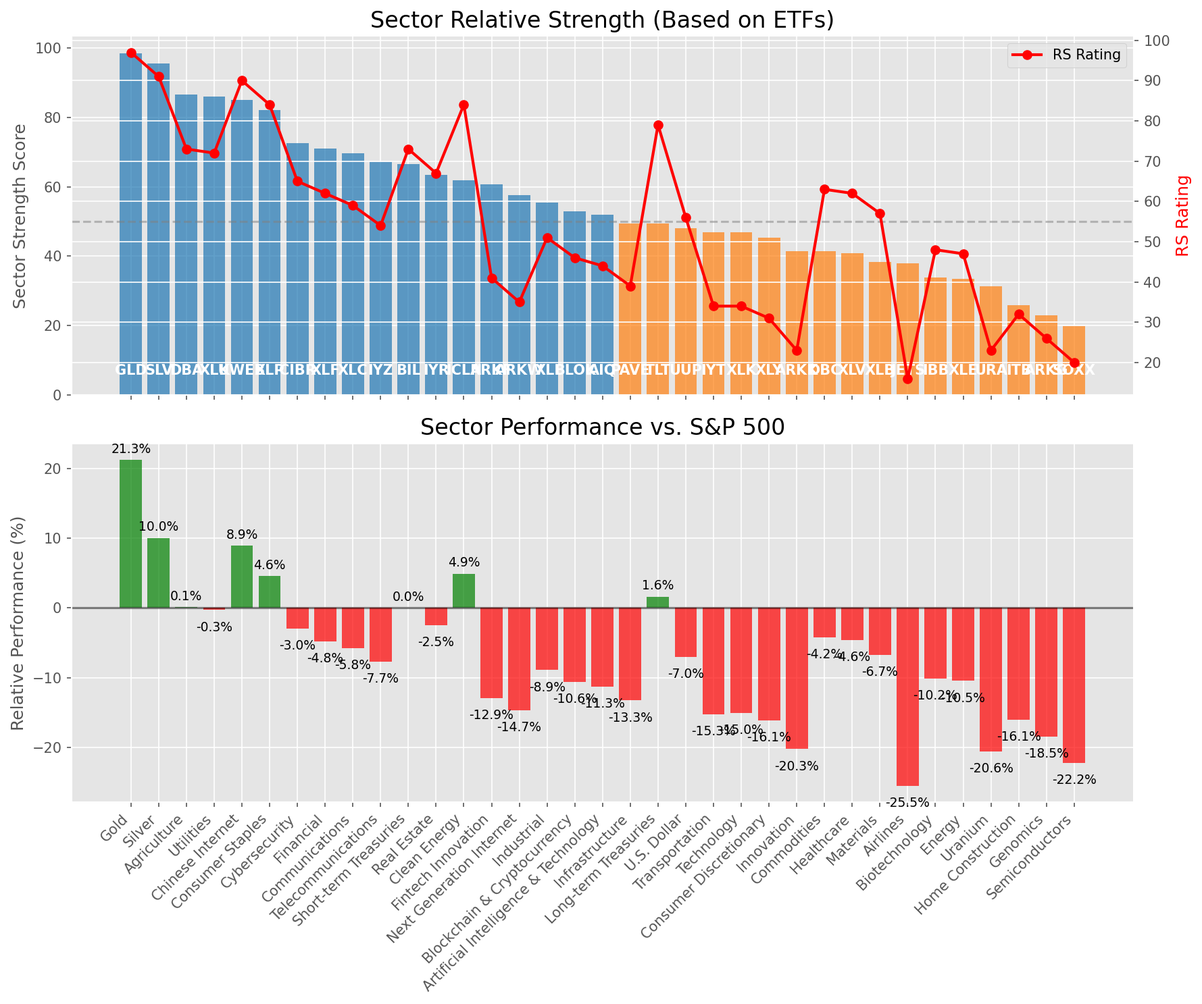
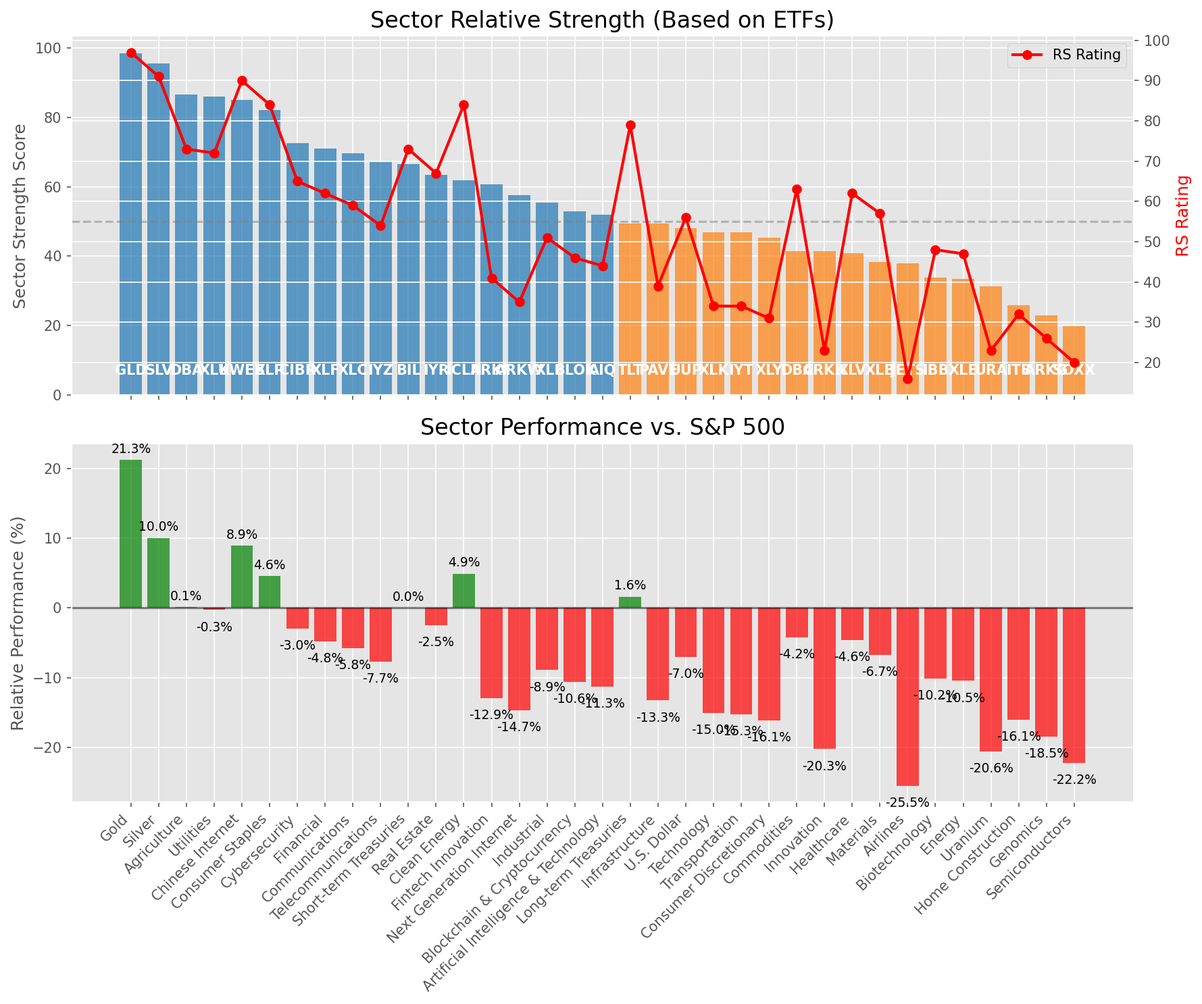
Add market report for 2025-04-24

diff --git a/oneil_relative_strength_report_2025-04-24.md b/oneil_relative_strength_report_2025-04-24.md
@@ -67,14 +67,14 @@ Based on William O'Neil's Relative Strength Methodology
 | [XLI](https://www.tradingview.com/chart/?symbol=XLI) | 55.4 | 51.0 | -8.93% | 10d ✓, 50d ✗, 200d ✗ | ↗ | Industrial |
 | [BLOK](https://www.tradingview.com/chart/?symbol=BLOK) | 52.9 | 46.0 | -10.64% | 10d ✓, 50d ✗, 200d ✗ | ↗ | Blockchain & Cryptocurrency |
 | [AIQ](https://www.tradingview.com/chart/?symbol=AIQ) | 51.9 | 44.0 | -11.30% | 10d ✓, 50d ✗, 200d ✗ | ↗ | Artificial Intelligence & Technology |
-| [PAVE](https://www.tradingview.com/chart/?symbol=PAVE) | 49.4 | 39.0 | -13.28% | 10d ✓, 50d ✗, 200d ✗ | ↗ | Infrastructure |
 | [TLT](https://www.tradingview.com/chart/?symbol=TLT) | 49.4 | 79.0 | 1.62% | 10d ✓, 50d ✗, 200d ✗ | ↘ | Long-term Treasuries |
+| [PAVE](https://www.tradingview.com/chart/?symbol=PAVE) | 49.4 | 39.0 | -13.28% | 10d ✓, 50d ✗, 200d ✗ | ↗ | Infrastructure |
 | [UUP](https://www.tradingview.com/chart/?symbol=UUP) | 48.0 | 56.0 | -7.01% | 10d ✗, 50d ✗, 200d ✗ | ↗ | U.S. Dollar |
-| [IYT](https://www.tradingview.com/chart/?symbol=IYT) | 46.9 | 34.0 | -15.29% | 10d ✓, 50d ✗, 200d ✗ | ↗ | Transportation |
 | [XLK](https://www.tradingview.com/chart/?symbol=XLK) | 46.9 | 34.0 | -15.05% | 10d ✓, 50d ✗, 200d ✗ | ↗ | Technology |
+| [IYT](https://www.tradingview.com/chart/?symbol=IYT) | 46.9 | 34.0 | -15.29% | 10d ✓, 50d ✗, 200d ✗ | ↗ | Transportation |
 | [XLY](https://www.tradingview.com/chart/?symbol=XLY) | 45.4 | 31.0 | -16.12% | 10d ✓, 50d ✗, 200d ✗ | ↗ | Consumer Discretionary |
-| [ARKK](https://www.tradingview.com/chart/?symbol=ARKK) | 41.4 | 23.0 | -20.26% | 10d ✓, 50d ✗, 200d ✗ | ↗ | Innovation |
 | [DBC](https://www.tradingview.com/chart/?symbol=DBC) | 41.4 | 63.0 | -4.22% | 10d ✓, 50d ✗, 200d ✗ | ↘ | Commodities |
+| [ARKK](https://www.tradingview.com/chart/?symbol=ARKK) | 41.4 | 23.0 | -20.26% | 10d ✓, 50d ✗, 200d ✗ | ↗ | Innovation |
 | [XLV](https://www.tradingview.com/chart/?symbol=XLV) | 40.9 | 62.0 | -4.64% | 10d ✓, 50d ✗, 200d ✗ | ↘ | Healthcare |
 | [XLB](https://www.tradingview.com/chart/?symbol=XLB) | 38.4 | 57.0 | -6.71% | 10d ✓, 50d ✗, 200d ✗ | ↘ | Materials |
 | [JETS](https://www.tradingview.com/chart/?symbol=JETS) | 37.9 | 16.0 | -25.54% | 10d ✓, 50d ✗, 200d ✗ | ↗ | Airlines |
@@ -110,78 +110,78 @@ The following 96 stocks show exceptional relative strength:
 
 | RS Rating | Buy Score | Current Price | Chart | Name | Ticker |
 |-----------|-----------|---------------|-------|------|--------|
-| 100 | 100 | $144.50 | [Chart](https://www.tradingview.com/chart/?symbol=UGL) | ProShares Ultra Gold | UGL |
-| 100 | 100 | $153.15 | [Chart](https://www.tradingview.com/chart/?symbol=PLMR) | Palomar Holdings, Inc. Common stock | PLMR |
 | 100 | 100 | $109.39 | [Chart](https://www.tradingview.com/chart/?symbol=WGS) | GeneDx Holdings Corp. Class A Common Stock | WGS |
+| 100 | 100 | $153.15 | [Chart](https://www.tradingview.com/chart/?symbol=PLMR) | Palomar Holdings, Inc. Common stock | PLMR |
+| 100 | 100 | $144.50 | [Chart](https://www.tradingview.com/chart/?symbol=UGL) | ProShares Ultra Gold | UGL |
 | 99 | 100 | $107.78 | [Chart](https://www.tradingview.com/chart/?symbol=PLTR) | Palantir Technologies Inc. Class A Common Stock | PLTR |
 | 99 | 100 | $119.63 | [Chart](https://www.tradingview.com/chart/?symbol=AEM) | Agnico Eagle Mines Ltd. | AEM |
 | 99 | 100 | $183.60 | [Chart](https://www.tradingview.com/chart/?symbol=RGLD) | Royal Gold Inc | RGLD |
 | 99 | 100 | $16.38 | [Chart](https://www.tradingview.com/chart/?symbol=EZPW) | Ezcorp Inc | EZPW |
-| 99 | 100 | $25.25 | [Chart](https://www.tradingview.com/chart/?symbol=TGI) | Triumph Group, Inc. | TGI |
 | 99 | 100 | $170.07 | [Chart](https://www.tradingview.com/chart/?symbol=PM) | Philip Morris International Inc. | PM |
+| 99 | 100 | $25.25 | [Chart](https://www.tradingview.com/chart/?symbol=TGI) | Triumph Group, Inc. | TGI |
+| 98 | 100 | $23.37 | [Chart](https://www.tradingview.com/chart/?symbol=OR) | Osisko Gold Royalties Ltd | OR |
 | 98 | 100 | $25.20 | [Chart](https://www.tradingview.com/chart/?symbol=DB) | Deutsche Bank Aktiengesellschaft | DB |
 | 98 | 100 | $71.75 | [Chart](https://www.tradingview.com/chart/?symbol=WRB) | W.R. Berkley Corporation | WRB |
-| 98 | 100 | $23.37 | [Chart](https://www.tradingview.com/chart/?symbol=OR) | Osisko Gold Royalties Ltd | OR |
 | 98 | 100 | $20.83 | [Chart](https://www.tradingview.com/chart/?symbol=GRND) | Grindr Inc. | GRND |
-| 97 | 100 | $31.89 | [Chart](https://www.tradingview.com/chart/?symbol=SGOL) | abrdn Physical Gold Shares ETF | SGOL |
-| 97 | 100 | $605.95 | [Chart](https://www.tradingview.com/chart/?symbol=SPOT) | Spotify Technology S.A. | SPOT |
 | 97 | 100 | $308.07 | [Chart](https://www.tradingview.com/chart/?symbol=GLD) | SPDR Gold Trust, SPDR Gold Shares | GLD |
-| 97 | 100 | $26.01 | [Chart](https://www.tradingview.com/chart/?symbol=MP) | MP Materials Corp. | MP |
-| 97 | 100 | $262.18 | [Chart](https://www.tradingview.com/chart/?symbol=TMUS) | T-Mobile US, Inc. | TMUS |
-| 97 | 100 | $32.22 | [Chart](https://www.tradingview.com/chart/?symbol=OUNZ) | VanEck Merk Gold ETF | OUNZ |
-| 97 | 100 | $222.69 | [Chart](https://www.tradingview.com/chart/?symbol=TTWO) | Take-Two Interactive Software Inc | TTWO |
-| 97 | 100 | $63.04 | [Chart](https://www.tradingview.com/chart/?symbol=IAU) | iShares Gold Trust | IAU |
-| 97 | 100 | $66.19 | [Chart](https://www.tradingview.com/chart/?symbol=GLDM) | SPDR Gold MiniShares | GLDM |
 | 97 | 100 | $33.02 | [Chart](https://www.tradingview.com/chart/?symbol=AAAU) | Goldman Sachs Physical Gold ETF Shares | AAAU |
+| 97 | 100 | $66.19 | [Chart](https://www.tradingview.com/chart/?symbol=GLDM) | SPDR Gold MiniShares | GLDM |
+| 97 | 100 | $262.18 | [Chart](https://www.tradingview.com/chart/?symbol=TMUS) | T-Mobile US, Inc. | TMUS |
+| 97 | 100 | $222.69 | [Chart](https://www.tradingview.com/chart/?symbol=TTWO) | Take-Two Interactive Software Inc | TTWO |
 | 97 | 100 | $252.59 | [Chart](https://www.tradingview.com/chart/?symbol=VRSN) | VeriSign Inc | VRSN |
-| 97 | 100 | $32.96 | [Chart](https://www.tradingview.com/chart/?symbol=BAR) | GraniteShares Gold Shares | BAR |
 | 97 | 100 | $33.33 | [Chart](https://www.tradingview.com/chart/?symbol=IAUM) | iShares Gold Trust Micro | IAUM |
-| 97 | 100 | $27.53 | [Chart](https://www.tradingview.com/chart/?symbol=T) | AT&T Inc. | T |
+| 97 | 100 | $31.89 | [Chart](https://www.tradingview.com/chart/?symbol=SGOL) | abrdn Physical Gold Shares ETF | SGOL |
+| 97 | 100 | $32.96 | [Chart](https://www.tradingview.com/chart/?symbol=BAR) | GraniteShares Gold Shares | BAR |
+| 97 | 100 | $605.95 | [Chart](https://www.tradingview.com/chart/?symbol=SPOT) | Spotify Technology S.A. | SPOT |
+| 97 | 100 | $63.04 | [Chart](https://www.tradingview.com/chart/?symbol=IAU) | iShares Gold Trust | IAU |
 | 97 | 100 | $71.35 | [Chart](https://www.tradingview.com/chart/?symbol=KR) | The Kroger Co. | KR |
-| 96 | 100 | $85.99 | [Chart](https://www.tradingview.com/chart/?symbol=SNEX) | StoneX Group Inc. Common Stock | SNEX |
-| 96 | 100 | $64.78 | [Chart](https://www.tradingview.com/chart/?symbol=VRNA) | Verona Pharma plc | VRNA |
-| 96 | 100 | $25.45 | [Chart](https://www.tradingview.com/chart/?symbol=PHYS) | Sprott Physical Gold Trust | PHYS |
-| 96 | 100 | $29.59 | [Chart](https://www.tradingview.com/chart/?symbol=CEF) | Sprott Physical Gold and Silver Trust | CEF |
-| 96 | 100 | $29.59 | [Chart](https://www.tradingview.com/chart/?symbol=EUFN) | iShares MSCI Europe Financials ETF | EUFN |
+| 97 | 100 | $27.53 | [Chart](https://www.tradingview.com/chart/?symbol=T) | AT&T Inc. | T |
+| 97 | 100 | $26.01 | [Chart](https://www.tradingview.com/chart/?symbol=MP) | MP Materials Corp. | MP |
+| 97 | 100 | $32.22 | [Chart](https://www.tradingview.com/chart/?symbol=OUNZ) | VanEck Merk Gold ETF | OUNZ |
 | 96 | 100 | $47.42 | [Chart](https://www.tradingview.com/chart/?symbol=SEZL) | Sezzle Inc. Common Stock | SEZL |
-| 95 | 100 | $53.97 | [Chart](https://www.tradingview.com/chart/?symbol=PPC) | Pilgrims Pride Corporation | PPC |
+| 96 | 100 | $85.99 | [Chart](https://www.tradingview.com/chart/?symbol=SNEX) | StoneX Group Inc. Common Stock | SNEX |
+| 96 | 100 | $29.59 | [Chart](https://www.tradingview.com/chart/?symbol=CEF) | Sprott Physical Gold and Silver Trust | CEF |
+| 96 | 100 | $25.45 | [Chart](https://www.tradingview.com/chart/?symbol=PHYS) | Sprott Physical Gold Trust | PHYS |
+| 96 | 100 | $64.78 | [Chart](https://www.tradingview.com/chart/?symbol=VRNA) | Verona Pharma plc | VRNA |
+| 96 | 100 | $29.59 | [Chart](https://www.tradingview.com/chart/?symbol=EUFN) | iShares MSCI Europe Financials ETF | EUFN |
 | 95 | 100 | $16.60 | [Chart](https://www.tradingview.com/chart/?symbol=SPNT) | SiriusPoint Ltd. | SPNT |
-| 95 | 100 | $88.15 | [Chart](https://www.tradingview.com/chart/?symbol=CCEP) | Coca-Cola Europacific Partners plc Ordinary Shares | CCEP |
-| 95 | 100 | $531.64 | [Chart](https://www.tradingview.com/chart/?symbol=BRK.B) | BERKSHIRE HATHAWAY Class B | BRK.B |
-| 95 | 100 | $48.81 | [Chart](https://www.tradingview.com/chart/?symbol=GFL) | GFL Environmental Inc. Subordinate Voting Shares | GFL |
-| 95 | 100 | $175.87 | [Chart](https://www.tradingview.com/chart/?symbol=DGX) | Quest Diagnostics Inc. | DGX |
-| 95 | 100 | $40.68 | [Chart](https://www.tradingview.com/chart/?symbol=MRX) | Marex Group plc Ordinary Shares | MRX |
 | 95 | 100 | $71.79 | [Chart](https://www.tradingview.com/chart/?symbol=CORT) | Corcept Therapeutics Inc. | CORT |
+| 95 | 100 | $53.97 | [Chart](https://www.tradingview.com/chart/?symbol=PPC) | Pilgrims Pride Corporation | PPC |
+| 95 | 100 | $88.15 | [Chart](https://www.tradingview.com/chart/?symbol=CCEP) | Coca-Cola Europacific Partners plc Ordinary Shares | CCEP |
+| 95 | 100 | $175.87 | [Chart](https://www.tradingview.com/chart/?symbol=DGX) | Quest Diagnostics Inc. | DGX |
+| 95 | 100 | $531.64 | [Chart](https://www.tradingview.com/chart/?symbol=BRK.B) | BERKSHIRE HATHAWAY Class B | BRK.B |
+| 95 | 100 | $40.68 | [Chart](https://www.tradingview.com/chart/?symbol=MRX) | Marex Group plc Ordinary Shares | MRX |
+| 95 | 100 | $48.81 | [Chart](https://www.tradingview.com/chart/?symbol=GFL) | GFL Environmental Inc. Subordinate Voting Shares | GFL |
 | 94 | 100 | $136.98 | [Chart](https://www.tradingview.com/chart/?symbol=DTE) | DTE Energy Company | DTE |
-| 94 | 100 | $166.68 | [Chart](https://www.tradingview.com/chart/?symbol=SFM) | Sprouts Farmers Market, Inc. | SFM |
-| 94 | 100 | $331.52 | [Chart](https://www.tradingview.com/chart/?symbol=AJG) | Arthur J. Gallagher & Co. | AJG |
-| 94 | 100 | $42.45 | [Chart](https://www.tradingview.com/chart/?symbol=BTI) | British American Tobacco p.l.c. American Depositary Shares, American Depositary Shares, each representing one Ordinary Share | BTI |
-| 94 | 100 | $68.41 | [Chart](https://www.tradingview.com/chart/?symbol=VTR) | Ventas, Inc. | VTR |
 | 94 | 100 | $58.71 | [Chart](https://www.tradingview.com/chart/?symbol=MO) | Altria Group, Inc. | MO |
+| 94 | 100 | $331.52 | [Chart](https://www.tradingview.com/chart/?symbol=AJG) | Arthur J. Gallagher & Co. | AJG |
+| 94 | 100 | $166.68 | [Chart](https://www.tradingview.com/chart/?symbol=SFM) | Sprouts Farmers Market, Inc. | SFM |
+| 94 | 100 | $68.41 | [Chart](https://www.tradingview.com/chart/?symbol=VTR) | Ventas, Inc. | VTR |
+| 94 | 100 | $42.45 | [Chart](https://www.tradingview.com/chart/?symbol=BTI) | British American Tobacco p.l.c. American Depositary Shares, American Depositary Shares, each representing one Ordinary Share | BTI |
 | 93 | 100 | $116.43 | [Chart](https://www.tradingview.com/chart/?symbol=COOP) | Mr. Cooper Group Inc. Common Stock | COOP |
+| 93 | 100 | $263.27 | [Chart](https://www.tradingview.com/chart/?symbol=CME) | CME Group Inc. | CME |
 | 93 | 100 | $77.96 | [Chart](https://www.tradingview.com/chart/?symbol=NFG) | National Fuel Gas Co. | NFG |
 | 93 | 100 | $74.14 | [Chart](https://www.tradingview.com/chart/?symbol=CMS) | CMS Energy Corporation | CMS |
 | 93 | 100 | $78.51 | [Chart](https://www.tradingview.com/chart/?symbol=OGS) | ONE GAS, INC. | OGS |
-| 93 | 100 | $77.96 | [Chart](https://www.tradingview.com/chart/?symbol=SR) | Spire Inc. | SR |
 | 93 | 100 | $39.03 | [Chart](https://www.tradingview.com/chart/?symbol=EWG) | iShares MSCI Germany ETF | EWG |
-| 93 | 100 | $263.27 | [Chart](https://www.tradingview.com/chart/?symbol=CME) | CME Group Inc. | CME |
-| 92 | 100 | $1096.87 | [Chart](https://www.tradingview.com/chart/?symbol=NFLX) | NetFlix Inc | NFLX |
+| 93 | 100 | $77.96 | [Chart](https://www.tradingview.com/chart/?symbol=SR) | Spire Inc. | SR |
 | 92 | 100 | $94.48 | [Chart](https://www.tradingview.com/chart/?symbol=PNW) | Pinnacle West Capital Corporation | PNW |
-| 92 | 100 | $34.68 | [Chart](https://www.tradingview.com/chart/?symbol=FDP) | Fresh Del Monte Produce Inc. | FDP |
-| 92 | 100 | $36.25 | [Chart](https://www.tradingview.com/chart/?symbol=PPL) | PPL Corporation | PPL |
+| 92 | 100 | $1096.87 | [Chart](https://www.tradingview.com/chart/?symbol=NFLX) | NetFlix Inc | NFLX |
 | 92 | 100 | $43.97 | [Chart](https://www.tradingview.com/chart/?symbol=NWN) | Northwest Natural Holding Company | NWN |
+| 92 | 100 | $36.25 | [Chart](https://www.tradingview.com/chart/?symbol=PPL) | PPL Corporation | PPL |
+| 92 | 100 | $34.68 | [Chart](https://www.tradingview.com/chart/?symbol=FDP) | Fresh Del Monte Produce Inc. | FDP |
 | 91 | 100 | $63.21 | [Chart](https://www.tradingview.com/chart/?symbol=FNF) | Fidelity National Financial, Inc. | FNF |
-| 91 | 100 | $196.72 | [Chart](https://www.tradingview.com/chart/?symbol=WCN) | Waste Connections, Inc. | WCN |
-| 91 | 100 | $120.70 | [Chart](https://www.tradingview.com/chart/?symbol=DUK) | Duke Energy Corporation | DUK |
 | 91 | 100 | $106.70 | [Chart](https://www.tradingview.com/chart/?symbol=AEP) | American Electric Power Company, Inc. | AEP |
+| 91 | 100 | $120.70 | [Chart](https://www.tradingview.com/chart/?symbol=DUK) | Duke Energy Corporation | DUK |
+| 91 | 100 | $196.72 | [Chart](https://www.tradingview.com/chart/?symbol=WCN) | Waste Connections, Inc. | WCN |
 | 90 | 100 | $37.21 | [Chart](https://www.tradingview.com/chart/?symbol=EXEL) | Exelixis Inc | EXEL |
 | 90 | 100 | $298.25 | [Chart](https://www.tradingview.com/chart/?symbol=PEN) | Penumbra, Inc. | PEN |
-| 89 | 100 | $68.28 | [Chart](https://www.tradingview.com/chart/?symbol=EVRG) | Evergy, Inc. | EVRG |
 | 89 | 100 | $24.03 | [Chart](https://www.tradingview.com/chart/?symbol=EWS) | iShares MSCI Singapore ETF | EWS |
 | 89 | 100 | $55.70 | [Chart](https://www.tradingview.com/chart/?symbol=HSBC) | HSBC Holdings PLC | HSBC |
-| 89 | 100 | $31.08 | [Chart](https://www.tradingview.com/chart/?symbol=AHR) | American Healthcare REIT, Inc. | AHR |
-| 89 | 100 | $260.40 | [Chart](https://www.tradingview.com/chart/?symbol=TRV) | The Travelers Companies, Inc. | TRV |
+| 89 | 100 | $68.28 | [Chart](https://www.tradingview.com/chart/?symbol=EVRG) | Evergy, Inc. | EVRG |
 | 89 | 100 | $57.88 | [Chart](https://www.tradingview.com/chart/?symbol=ULS) | UL Solutions Inc. | ULS |
+| 89 | 100 | $260.40 | [Chart](https://www.tradingview.com/chart/?symbol=TRV) | The Travelers Companies, Inc. | TRV |
+| 89 | 100 | $31.08 | [Chart](https://www.tradingview.com/chart/?symbol=AHR) | American Healthcare REIT, Inc. | AHR |
 | 88 | 100 | $18.71 | [Chart](https://www.tradingview.com/chart/?symbol=KT) | KT Corp. | KT |
 | 88 | 100 | $32.69 | [Chart](https://www.tradingview.com/chart/?symbol=UGI) | UGI Corporation | UGI |
 | 87 | 100 | $70.29 | [Chart](https://www.tradingview.com/chart/?symbol=XEL) | Xcel Energy, Inc. | XEL |
@@ -192,8 +192,8 @@ The following 96 stocks show exceptional relative strength:
 | 87 | 99 | $101.41 | [Chart](https://www.tradingview.com/chart/?symbol=EHC) | Encompass Health Corporation Common Stock | EHC |
 | 86 | 99 | $15.63 | [Chart](https://www.tradingview.com/chart/?symbol=BCS) | Barclays PLC | BCS |
 | 85 | 99 | $135.84 | [Chart](https://www.tradingview.com/chart/?symbol=CAH) | Cardinal Health, Inc. | CAH |
-| 88 | 98 | $119.24 | [Chart](https://www.tradingview.com/chart/?symbol=HIG) | The Hartford Insurance Group, Inc. | HIG |
 | 88 | 98 | $62.97 | [Chart](https://www.tradingview.com/chart/?symbol=RYTM) | Rhythm Pharmaceuticals, Inc. Common Stock | RYTM |
+| 88 | 98 | $119.24 | [Chart](https://www.tradingview.com/chart/?symbol=HIG) | The Hartford Insurance Group, Inc. | HIG |
 | 85 | 98 | $79.34 | [Chart](https://www.tradingview.com/chart/?symbol=UNM) | Unum Group | UNM |
 | 87 | 97 | $124.09 | [Chart](https://www.tradingview.com/chart/?symbol=BECN) | Beacon Roofing Supply, Inc. | BECN |
 | 84 | 97 | $45.21 | [Chart](https://www.tradingview.com/chart/?symbol=OGE) | OGE Energy Corp. | OGE |
@@ -203,8 +203,8 @@ The following 96 stocks show exceptional relative strength:
 | 83 | 95 | $67.20 | [Chart](https://www.tradingview.com/chart/?symbol=EBAY) | eBay Inc | EBAY |
 | 82 | 93 | $975.48 | [Chart](https://www.tradingview.com/chart/?symbol=COST) | Costco Wholesale Corp | COST |
 | 80 | 93 | $95.84 | [Chart](https://www.tradingview.com/chart/?symbol=WMT) | Walmart Inc. | WMT |
-| 81 | 91 | $79.32 | [Chart](https://www.tradingview.com/chart/?symbol=CASH) | Pathward Financial, Inc. Common Stock | CASH |
 | 81 | 91 | $49.99 | [Chart](https://www.tradingview.com/chart/?symbol=VTIP) | Vanguard Short-Term Inflation-Protected Securities Index Fund | VTIP |
+| 81 | 91 | $79.32 | [Chart](https://www.tradingview.com/chart/?symbol=CASH) | Pathward Financial, Inc. Common Stock | CASH |
 | 80 | 89 | $227.71 | [Chart](https://www.tradingview.com/chart/?symbol=VEEV) | Veeva Systems Inc. | VEEV |
 
 ---
@@ -212,33 +212,33 @@ The following 96 stocks show exceptional relative strength:
 
 ## **Sell Recommendations**
 
-The following 123 stocks show deteriorating relative strength:
+The following 122 stocks show deteriorating relative strength:
 
 | RS Rating | Sell Score | Current Price | Chart | Name | Ticker |
 |-----------|------------|---------------|-------|------|--------|
-| 1 | 100 | $10.03 | [Chart](https://www.tradingview.com/chart/?symbol=FLYW) | Flywire Corporation Voting Common Stock | FLYW |
 | 1 | 100 | $10.06 | [Chart](https://www.tradingview.com/chart/?symbol=AMRC) | Ameresco, Inc. | AMRC |
+| 1 | 100 | $10.03 | [Chart](https://www.tradingview.com/chart/?symbol=FLYW) | Flywire Corporation Voting Common Stock | FLYW |
 | 2 | 100 | $17.67 | [Chart](https://www.tradingview.com/chart/?symbol=TNDM) | Tandem Diabetes Care, Inc. | TNDM |
 | 4 | 100 | $56.25 | [Chart](https://www.tradingview.com/chart/?symbol=LABU) | Direxion Daily S&P Biotech Bull 3X Shares | LABU |
-| 4 | 100 | $18.89 | [Chart](https://www.tradingview.com/chart/?symbol=DAVA) | Endava plc American Depositary Shares (each representing one Class A Ordinary Share) | DAVA |
 | 4 | 100 | $13.05 | [Chart](https://www.tradingview.com/chart/?symbol=ODP) | The ODP Corporation Common Stock | ODP |
-| 5 | 100 | $22.77 | [Chart](https://www.tradingview.com/chart/?symbol=NSSC) | Napco Security Technologies, Inc | NSSC |
-| 5 | 100 | $23.78 | [Chart](https://www.tradingview.com/chart/?symbol=RPD) | Rapid7, Inc. Common Stock | RPD |
+| 4 | 100 | $18.89 | [Chart](https://www.tradingview.com/chart/?symbol=DAVA) | Endava plc American Depositary Shares (each representing one Class A Ordinary Share) | DAVA |
 | 5 | 100 | $26.47 | [Chart](https://www.tradingview.com/chart/?symbol=SPHR) | Sphere Entertainment Co. | SPHR |
-| 6 | 100 | $66.94 | [Chart](https://www.tradingview.com/chart/?symbol=CAMT) | Camtek Ltd | CAMT |
-| 6 | 100 | $19.12 | [Chart](https://www.tradingview.com/chart/?symbol=SG) | Sweetgreen, Inc. | SG |
-| 6 | 100 | $20.99 | [Chart](https://www.tradingview.com/chart/?symbol=SPT) | Sprout Social, Inc Class A Common Stock | SPT |
+| 5 | 100 | $23.78 | [Chart](https://www.tradingview.com/chart/?symbol=RPD) | Rapid7, Inc. Common Stock | RPD |
+| 5 | 100 | $22.77 | [Chart](https://www.tradingview.com/chart/?symbol=NSSC) | Napco Security Technologies, Inc | NSSC |
 | 6 | 100 | $12.49 | [Chart](https://www.tradingview.com/chart/?symbol=IMXI) | International Money Express, Inc. | IMXI |
-| 6 | 100 | $32.61 | [Chart](https://www.tradingview.com/chart/?symbol=SCSC) | Scansource Inc | SCSC |
 | 6 | 100 | $13.42 | [Chart](https://www.tradingview.com/chart/?symbol=GCT) | GigaCloud Technology Inc Class A Ordinary Shares | GCT |
+| 6 | 100 | $66.94 | [Chart](https://www.tradingview.com/chart/?symbol=CAMT) | Camtek Ltd | CAMT |
+| 6 | 100 | $32.61 | [Chart](https://www.tradingview.com/chart/?symbol=SCSC) | Scansource Inc | SCSC |
+| 6 | 100 | $20.99 | [Chart](https://www.tradingview.com/chart/?symbol=SPT) | Sprout Social, Inc Class A Common Stock | SPT |
+| 6 | 100 | $19.12 | [Chart](https://www.tradingview.com/chart/?symbol=SG) | Sweetgreen, Inc. | SG |
 | 7 | 100 | $18.56 | [Chart](https://www.tradingview.com/chart/?symbol=PDFS) | PDF Solutions Inc | PDFS |
 | 7 | 100 | $16.70 | [Chart](https://www.tradingview.com/chart/?symbol=IART) | Integra LifeSciences Holdings | IART |
 | 8 | 100 | $22.06 | [Chart](https://www.tradingview.com/chart/?symbol=SYM) | Symbotic Inc. Class A Common Stock | SYM |
 | 8 | 100 | $21.51 | [Chart](https://www.tradingview.com/chart/?symbol=TDC) | TERADATA CORPORATION | TDC |
-| 8 | 100 | $18.59 | [Chart](https://www.tradingview.com/chart/?symbol=AMN) | AMN Healthcare Services | AMN |
 | 8 | 100 | $13.17 | [Chart](https://www.tradingview.com/chart/?symbol=DV) | DoubleVerify Holdings, Inc. | DV |
-| 9 | 100 | $112.01 | [Chart](https://www.tradingview.com/chart/?symbol=ARM) | Arm Holdings plc American Depositary Shares | ARM |
+| 8 | 100 | $18.59 | [Chart](https://www.tradingview.com/chart/?symbol=AMN) | AMN Healthcare Services | AMN |
 | 9 | 100 | $15.16 | [Chart](https://www.tradingview.com/chart/?symbol=MEG) | Montrose Environmental Group, Inc. | MEG |
+| 9 | 100 | $112.01 | [Chart](https://www.tradingview.com/chart/?symbol=ARM) | Arm Holdings plc American Depositary Shares | ARM |
 | 11 | 100 | $13.71 | [Chart](https://www.tradingview.com/chart/?symbol=XRAY) | DENTSPLY SIRONA Inc. | XRAY |
 | 11 | 100 | $13.02 | [Chart](https://www.tradingview.com/chart/?symbol=DK) | Delek US Holdings, Inc. | DK |
 | 12 | 100 | $12.70 | [Chart](https://www.tradingview.com/chart/?symbol=TRIP) | TripAdvisor, Inc. | TRIP |
@@ -246,21 +246,21 @@ The following 123 stocks show deteriorating relative strength:
 | 13 | 100 | $28.55 | [Chart](https://www.tradingview.com/chart/?symbol=SRDX) | Surmodics, Inc. Common Stock | SRDX |
 | 15 | 100 | $21.64 | [Chart](https://www.tradingview.com/chart/?symbol=ST) | Sensata Technologies Holding plc | ST |
 | 8 | 99 | $56.13 | [Chart](https://www.tradingview.com/chart/?symbol=SYNA) | Synaptics Inc | SYNA |
-| 9 | 99 | $12.89 | [Chart](https://www.tradingview.com/chart/?symbol=ARCT) | Arcturus Therapeutics Holdings Inc. Common Stock | ARCT |
 | 9 | 99 | $10.92 | [Chart](https://www.tradingview.com/chart/?symbol=AEYE) | AudioEye, Inc. Common Stock | AEYE |
+| 9 | 99 | $12.89 | [Chart](https://www.tradingview.com/chart/?symbol=ARCT) | Arcturus Therapeutics Holdings Inc. Common Stock | ARCT |
 | 13 | 99 | $10.77 | [Chart](https://www.tradingview.com/chart/?symbol=SONO) | Sonos, Inc. Common Stock | SONO |
 | 15 | 99 | $21.16 | [Chart](https://www.tradingview.com/chart/?symbol=FOXF) | Fox Factory Holding Corp. Common Stock | FOXF |
 | 20 | 99 | $12.17 | [Chart](https://www.tradingview.com/chart/?symbol=MED) | Medifast, Inc. | MED |
 | 3 | 98 | $77.61 | [Chart](https://www.tradingview.com/chart/?symbol=ILMN) | Illumina Inc | ILMN |
 | 8 | 98 | $35.36 | [Chart](https://www.tradingview.com/chart/?symbol=CRC) | California Resources Corporation | CRC |
 | 9 | 98 | $10.01 | [Chart](https://www.tradingview.com/chart/?symbol=MYGN) | Myriad Genetics Inc | MYGN |
-| 14 | 98 | $12.03 | [Chart](https://www.tradingview.com/chart/?symbol=OSCR) | Oscar Health, Inc. | OSCR |
+| 14 | 97 | $12.03 | [Chart](https://www.tradingview.com/chart/?symbol=OSCR) | Oscar Health, Inc. | OSCR |
 | 12 | 96 | $99.60 | [Chart](https://www.tradingview.com/chart/?symbol=DDOG) | Datadog, Inc. Class A Common Stock | DDOG |
 | 13 | 96 | $62.28 | [Chart](https://www.tradingview.com/chart/?symbol=SPB) | Spectrum Brands Holdings, Inc. | SPB |
 | 17 | 96 | $35.99 | [Chart](https://www.tradingview.com/chart/?symbol=STNG) | Scorpio Tankers Inc. | STNG |
 | 5 | 95 | $102.18 | [Chart](https://www.tradingview.com/chart/?symbol=BOOT) | Boot Barn Holdings, Inc. | BOOT |
-| 9 | 95 | $12.56 | [Chart](https://www.tradingview.com/chart/?symbol=ZETA) | Zeta Global Holdings Corp. | ZETA |
 | 9 | 95 | $11.85 | [Chart](https://www.tradingview.com/chart/?symbol=MBC) | MasterBrand, Inc. | MBC |
+| 9 | 95 | $12.56 | [Chart](https://www.tradingview.com/chart/?symbol=ZETA) | Zeta Global Holdings Corp. | ZETA |
 | 10 | 95 | $10.01 | [Chart](https://www.tradingview.com/chart/?symbol=VYX) | NCR Voyix Corporation | VYX |
 | 18 | 95 | $29.04 | [Chart](https://www.tradingview.com/chart/?symbol=YETI) | YETI Holdings, Inc. Common Stock | YETI |
 | 6 | 94 | $19.40 | [Chart](https://www.tradingview.com/chart/?symbol=CECO) | Ceco Environmental Corp | CECO |
@@ -268,8 +268,8 @@ The following 123 stocks show deteriorating relative strength:
 | 14 | 94 | $25.01 | [Chart](https://www.tradingview.com/chart/?symbol=RNG) | RINGCENTRAL, INC. | RNG |
 | 16 | 94 | $96.09 | [Chart](https://www.tradingview.com/chart/?symbol=BCC) | Boise Cascade Company | BCC |
 | 18 | 94 | $11.34 | [Chart](https://www.tradingview.com/chart/?symbol=HPK) | HighPeak Energy, Inc. Common Stock | HPK |
-| 20 | 94 | $12.61 | [Chart](https://www.tradingview.com/chart/?symbol=BAND) | Bandwidth Inc. Class A Common Stock | BAND |
 | 20 | 94 | $10.15 | [Chart](https://www.tradingview.com/chart/?symbol=CSIQ) | Canadian Solar Inc. Common Shares (ON) | CSIQ |
+| 20 | 94 | $12.61 | [Chart](https://www.tradingview.com/chart/?symbol=BAND) | Bandwidth Inc. Class A Common Stock | BAND |
 | 26 | 94 | $14.38 | [Chart](https://www.tradingview.com/chart/?symbol=FXN) | First Trust Energy AlphaDEX Fund | FXN |
 | 10 | 92 | $30.82 | [Chart](https://www.tradingview.com/chart/?symbol=UWM) | ProShares Ultra Russell2000 | UWM |
 | 27 | 92 | $16.06 | [Chart](https://www.tradingview.com/chart/?symbol=TRMD) | TORM plc Class A Common Stock | TRMD |
@@ -278,12 +278,12 @@ The following 123 stocks show deteriorating relative strength:
 | 12 | 91 | $10.31 | [Chart](https://www.tradingview.com/chart/?symbol=VREX) | Varex Imaging Corporation Common Stock | VREX |
 | 17 | 91 | $34.53 | [Chart](https://www.tradingview.com/chart/?symbol=OVV) | Ovintiv Inc. | OVV |
 | 20 | 91 | $25.86 | [Chart](https://www.tradingview.com/chart/?symbol=GDEN) | Golden Entertainment, Inc. Common Stock | GDEN |
-| 18 | 90 | $12.29 | [Chart](https://www.tradingview.com/chart/?symbol=KRP) | Kimbell Royalty Partners, LP Common Units representing Limited Partner Interests | KRP |
 | 13 | 89 | $10.21 | [Chart](https://www.tradingview.com/chart/?symbol=SEMR) | SEMrush Holdings, Inc. | SEMR |
+| 18 | 89 | $12.29 | [Chart](https://www.tradingview.com/chart/?symbol=KRP) | Kimbell Royalty Partners, LP Common Units representing Limited Partner Interests | KRP |
 | 20 | 89 | $12.20 | [Chart](https://www.tradingview.com/chart/?symbol=PR) | Permian Resources Corporation | PR |
 | 20 | 89 | $30.08 | [Chart](https://www.tradingview.com/chart/?symbol=CDRE) | Cadre Holdings, Inc. | CDRE |
-| 23 | 89 | $11.41 | [Chart](https://www.tradingview.com/chart/?symbol=KELYA) | Kelly Services Inc | KELYA |
 | 23 | 89 | $50.19 | [Chart](https://www.tradingview.com/chart/?symbol=POWI) | Power Integrations Inc | POWI |
+| 23 | 89 | $11.41 | [Chart](https://www.tradingview.com/chart/?symbol=KELYA) | Kelly Services Inc | KELYA |
 | 17 | 88 | $40.17 | [Chart](https://www.tradingview.com/chart/?symbol=TWST) | Twist Bioscience Corporation Common Stock | TWST |
 | 13 | 87 | $10.24 | [Chart](https://www.tradingview.com/chart/?symbol=EXPI) | eXp World Holdings, Inc. Common Stock | EXPI |
 | 14 | 86 | $15.36 | [Chart](https://www.tradingview.com/chart/?symbol=DXC) | DXC Technology Company | DXC |
@@ -304,22 +304,21 @@ The following 123 stocks show deteriorating relative strength:
 | 21 | 81 | $33.68 | [Chart](https://www.tradingview.com/chart/?symbol=AVNT) | Avient Corporation | AVNT |
 | 25 | 81 | $75.74 | [Chart](https://www.tradingview.com/chart/?symbol=IR) | Ingersoll Rand Inc. Common Stock | IR |
 | 29 | 81 | $170.27 | [Chart](https://www.tradingview.com/chart/?symbol=IBP) | INSTALLED BUILDING PRODUCTS, INC. | IBP |
-| 29 | 81 | $14.10 | [Chart](https://www.tradingview.com/chart/?symbol=ZIM) | ZIM Integrated Shipping Services Ltd. | ZIM |
 | 29 | 81 | $45.60 | [Chart](https://www.tradingview.com/chart/?symbol=EXAS) | Exact Sciences Corp | EXAS |
-| 20 | 80 | $11.92 | [Chart](https://www.tradingview.com/chart/?symbol=APLE) | Apple Hospitality REIT, Inc. | APLE |
+| 29 | 81 | $14.10 | [Chart](https://www.tradingview.com/chart/?symbol=ZIM) | ZIM Integrated Shipping Services Ltd. | ZIM |
 | 24 | 80 | $13.93 | [Chart](https://www.tradingview.com/chart/?symbol=HST) | Host Hotels & Resorts, Inc. | HST |
-| 27 | 80 | $43.67 | [Chart](https://www.tradingview.com/chart/?symbol=PRKS) | United Parks & Resorts Inc. | PRKS |
 | 28 | 80 | $11.91 | [Chart](https://www.tradingview.com/chart/?symbol=NAVI) | Navient Corporation | NAVI |
 | 32 | 80 | $11.17 | [Chart](https://www.tradingview.com/chart/?symbol=ABR) | Arbor Realty Trust, Inc. | ABR |
 | 24 | 79 | $215.69 | [Chart](https://www.tradingview.com/chart/?symbol=FDX) | FedEx Corporation | FDX |
-| 27 | 79 | $11.65 | [Chart](https://www.tradingview.com/chart/?symbol=MRC) | MRC GLOBAL INC. | MRC |
+| 27 | 79 | $43.67 | [Chart](https://www.tradingview.com/chart/?symbol=PRKS) | United Parks & Resorts Inc. | PRKS |
 | 27 | 79 | $11.72 | [Chart](https://www.tradingview.com/chart/?symbol=CIM) | Chimera Investment Corp. | CIM |
+| 27 | 79 | $11.65 | [Chart](https://www.tradingview.com/chart/?symbol=MRC) | MRC GLOBAL INC. | MRC |
 | 35 | 79 | $302.42 | [Chart](https://www.tradingview.com/chart/?symbol=BLD) | TopBuild Corp. Common Stock | BLD |
 | 29 | 78 | $18.30 | [Chart](https://www.tradingview.com/chart/?symbol=ELVN) | Enliven Therapeutics, Inc. Common Stock | ELVN |
 | 30 | 78 | $11.30 | [Chart](https://www.tradingview.com/chart/?symbol=SHC) | Sotera Health Company Common Stock | SHC |
-| 32 | 78 | $35.17 | [Chart](https://www.tradingview.com/chart/?symbol=IAC) | IAC Inc. Common Stock | IAC |
 | 26 | 77 | $22.45 | [Chart](https://www.tradingview.com/chart/?symbol=ARKG) | ARK Genomic Revolution ETF | ARKG |
 | 29 | 77 | $29.26 | [Chart](https://www.tradingview.com/chart/?symbol=AGIO) | Agios Pharmaceuticals, Inc. | AGIO |
+| 32 | 77 | $35.17 | [Chart](https://www.tradingview.com/chart/?symbol=IAC) | IAC Inc. Common Stock | IAC |
 | 33 | 77 | $40.33 | [Chart](https://www.tradingview.com/chart/?symbol=CYTK) | Cytokinetics Inc. | CYTK |
 | 27 | 76 | $10.71 | [Chart](https://www.tradingview.com/chart/?symbol=DBRG) | DigitalBridge Group, Inc. | DBRG |
 | 27 | 76 | $19.69 | [Chart](https://www.tradingview.com/chart/?symbol=KMT) | Kennametal Inc. | KMT |
